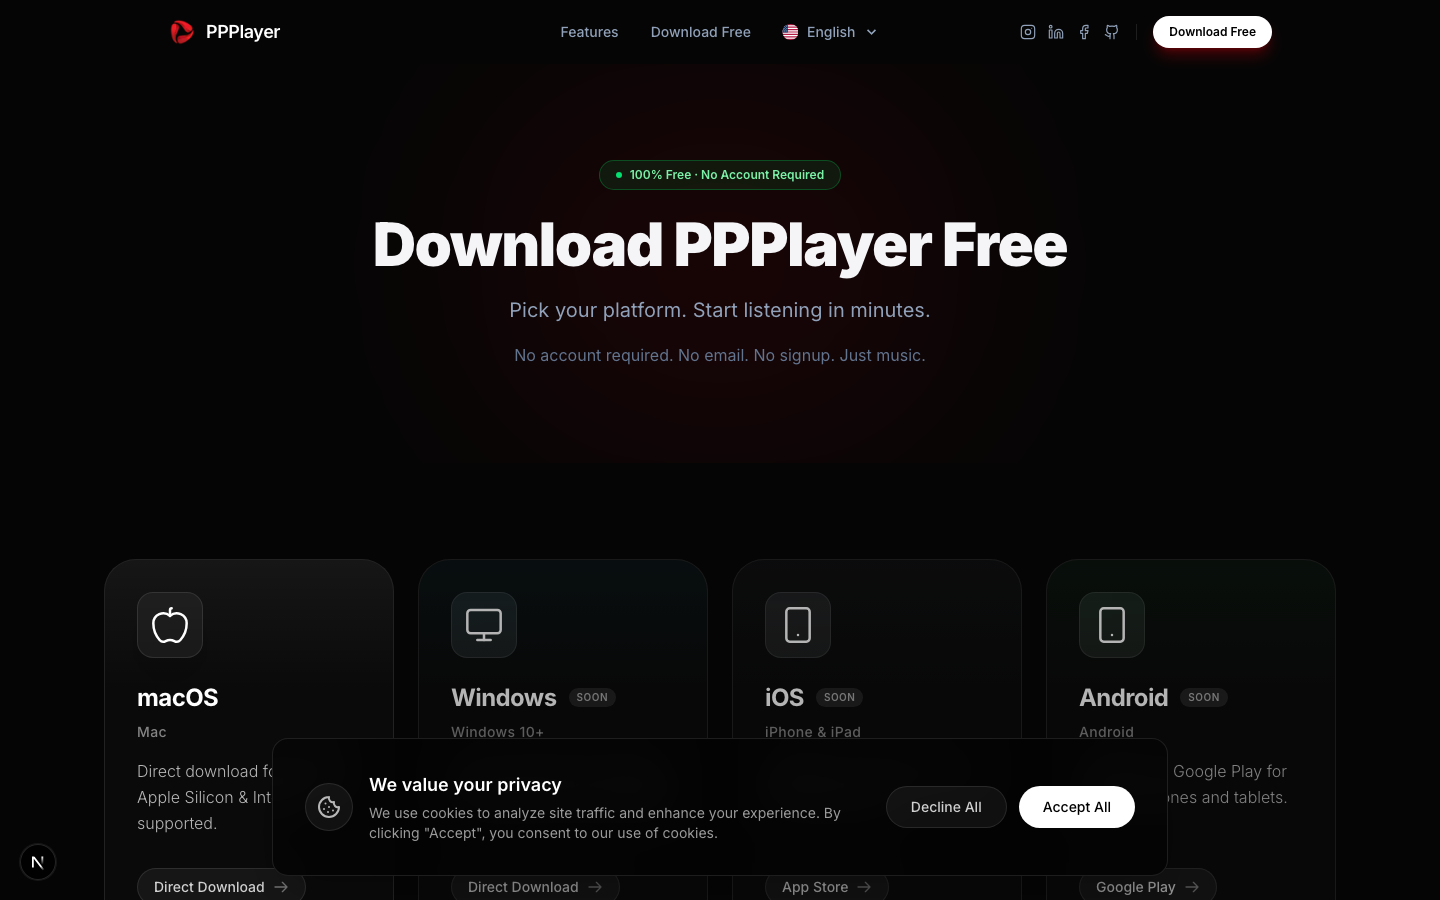
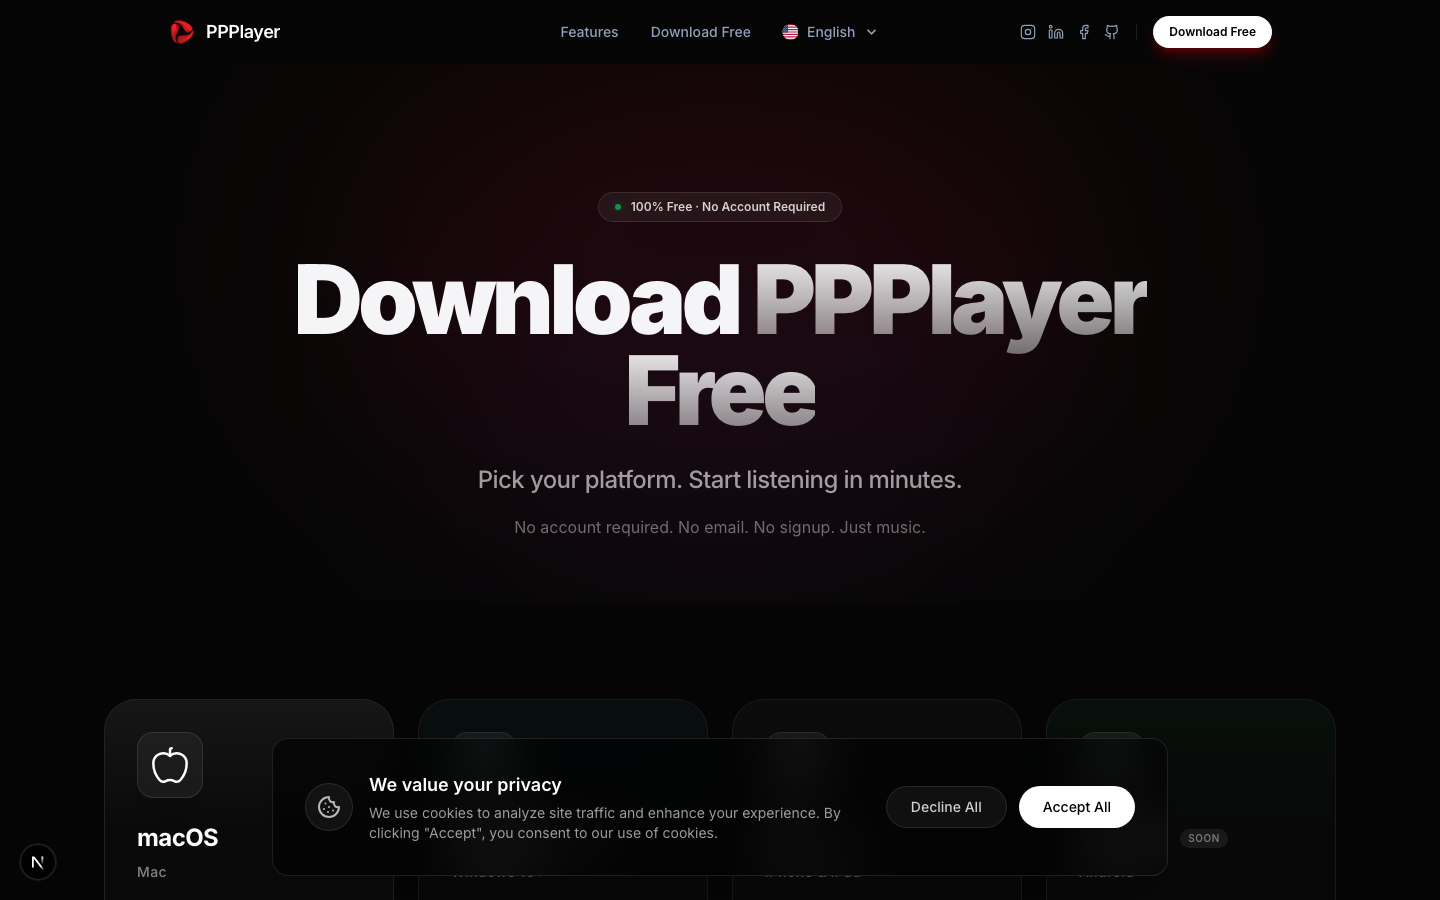
feat: redesign download page hero section with updated graphics and refined typography

diff --git a/app/[locale]/download/page.tsx b/app/[locale]/download/page.tsx
@@ -30,24 +30,32 @@ export default async function DownloadPage({ params }: { params: Promise<{ local
       <Navbar />
       <main className="pt-16">
         {/* Hero */}
-        <section className="relative py-24 text-center overflow-hidden">
-          <div className="absolute inset-0 overflow-hidden pointer-events-none">
-            <div className="absolute top-1/2 left-1/2 -translate-x-1/2 -translate-y-1/2 w-[500px] h-[400px] bg-red-700/10 rounded-full blur-[100px]" />
+        <section className="relative pt-32 pb-16 text-center overflow-hidden">
+          {/* Subtle background glow */}
+          <div className="absolute inset-0 pointer-events-none flex items-start justify-center">
+            <div className="absolute top-[-10%] w-[800px] h-[500px] bg-red-600/10 rounded-[100%] blur-[120px] mix-blend-screen" />
+            <div className="absolute top-[20%] w-[600px] h-[400px] bg-blue-600/10 rounded-[100%] blur-[120px] mix-blend-screen opacity-50" />
           </div>
-          <div className="relative max-w-3xl mx-auto px-4">
-            <span className="inline-flex items-center gap-2 px-4 py-1.5 rounded-full text-xs font-semibold text-green-300 border border-green-500/30 bg-green-500/10 mb-6">
-              <span className="w-1.5 h-1.5 rounded-full bg-green-400 animate-pulse" />
-              {t("badge")}
-            </span>
-            <h1 className="text-5xl sm:text-6xl font-black tracking-tight mb-5">
+          
+          <div className="relative max-w-4xl mx-auto px-4 z-10">
+            <div className="flex justify-center mb-8">
+              <div className="inline-flex items-center gap-2.5 px-4 py-1.5 rounded-full text-xs font-semibold text-white/80 border border-white/10 bg-white/5 backdrop-blur-md shadow-2xl">
+                <span className="w-1.5 h-1.5 rounded-full bg-green-500 shadow-[0_0_10px_rgba(34,197,94,0.6)] animate-pulse" />
+                {t("badge")}
+              </div>
+            </div>
+            
+            <h1 className="text-6xl sm:text-7xl md:text-8xl font-black tracking-tighter mb-6 leading-[0.95]">
               {t.rich("title", {
-                gradient: (chunks) => <span className="gradient-text">{chunks}</span>
+                gradient: (chunks) => <span className="text-transparent bg-clip-text bg-gradient-to-b from-white to-white/40">{chunks}</span>
               })}
             </h1>
-            <p className="text-slate-400 text-xl leading-relaxed mb-4">
+            
+            <p className="text-white/60 text-xl md:text-2xl font-medium tracking-tight mb-4 max-w-2xl mx-auto leading-relaxed">
               {t("subtitle")}
             </p>
-            <p className="text-slate-500 text-base">
+            
+            <p className="text-white/40 text-sm md:text-base max-w-xl mx-auto">
               {t("desc")}
             </p>
           </div>
